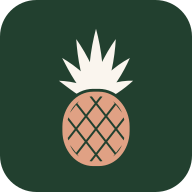
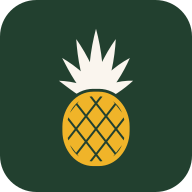
Gold body on the mark, title-case wordmark
- The mark's body is now gold (#F0B429) on every background, matching
  the app and the original badge. Clay stays as the site's accent.
- The wordmark is "Project Pineapple" in title case in the display
  Caslon, in the header and footer, in place of tracked capitals.
- Favicons and every file in brand/ are regenerated. The lockups are
  re-cut in title case with the font's own kerning.

Claude-Session: https://claude.ai/code/session_01VhWAjLQom68KkzVWgtfSXb

Changed region(s): [[0.3125, 0.4688, 0.6875, 0.875]]

diff --git a/brand/README.md b/brand/README.md
@@ -1,6 +1,6 @@
 # Project Pineapple logo files
 
-The mark is a pineapple with a pine crown over a clay body. Use these files
+The mark is a pineapple with a pine crown over a gold body. Use these files
 anywhere the logo appears, so every product shows the same drawing.
 
 ## Which file to use
@@ -27,15 +27,19 @@ noise. The 16px icon drops the lattice altogether.
 | Name | Hex | Where |
 | --- | --- | --- |
 | Pine | `#22402f` | Crown on light backgrounds, icon tile, wordmark |
-| Clay | `#c1613c` | Body on light backgrounds |
-| Cream | `#faf5ee` | Crown on dark backgrounds, page background |
-| Light clay | `#e0a184` | Body on dark backgrounds |
+| Gold | `#F0B429` | Body, on every background |
+| Cream | `#faf5ee` | Crown and wordmark on dark backgrounds, page background |
+
+Gold is the mark's own colour. On the website the accent colour for text
+and small details is clay, `#c1613c`, not gold.
 
 ## Notes
 
-- The wordmark in the lockups is Libre Caslon Text, uppercase, tracked
-  0.06em, converted to outlines, so no font is needed. It is set without
-  kerning pairs. That is fine on screen; have it checked before print.
+- The wordmark in the lockups is "Project Pineapple" in Libre Caslon
+  Display, title case, set with the font's own kerning and converted to
+  outlines, so no font is needed. To set it as live text instead, use
+  Libre Caslon Display at about three quarters of the mark's height, with
+  letter-spacing of -0.008em.
 - The SVGs use masks to cut the lattice out of the body, so the lattice
   shows whatever is behind the mark. If a tool does not render SVG masks,
   use the PNGs.

diff --git a/README.md b/README.md
@@ -55,9 +55,11 @@ No layout work is needed.
 - No pure black, no pure white, no shadows, no border radius except circular
   portrait crops and the phone frame around product screens. Hairline
   borders and background shifts only.
-- Logo mark: a pineapple with a pine crown over a clay body and a diamond
-  lattice. The header uses the small drawing, with a coarser lattice. The
-  favicon is the reversed mark on a pine tile. Every version, with usage
+- Logo mark: a pineapple with a pine crown over a gold body (`#F0B429`) and
+  a diamond lattice. Gold belongs to the mark only; the site accent is clay.
+  The header uses the small drawing, with a coarser lattice. The wordmark is
+  "Project Pineapple" in title case, in the display Caslon. The favicon is
+  the mark with a cream crown on a pine tile. Every version, with usage
   notes, is in `brand/`; use those files in other products too.
 - Product screens are demo data and are always labelled as such. Never
   present them as a real client's results.
